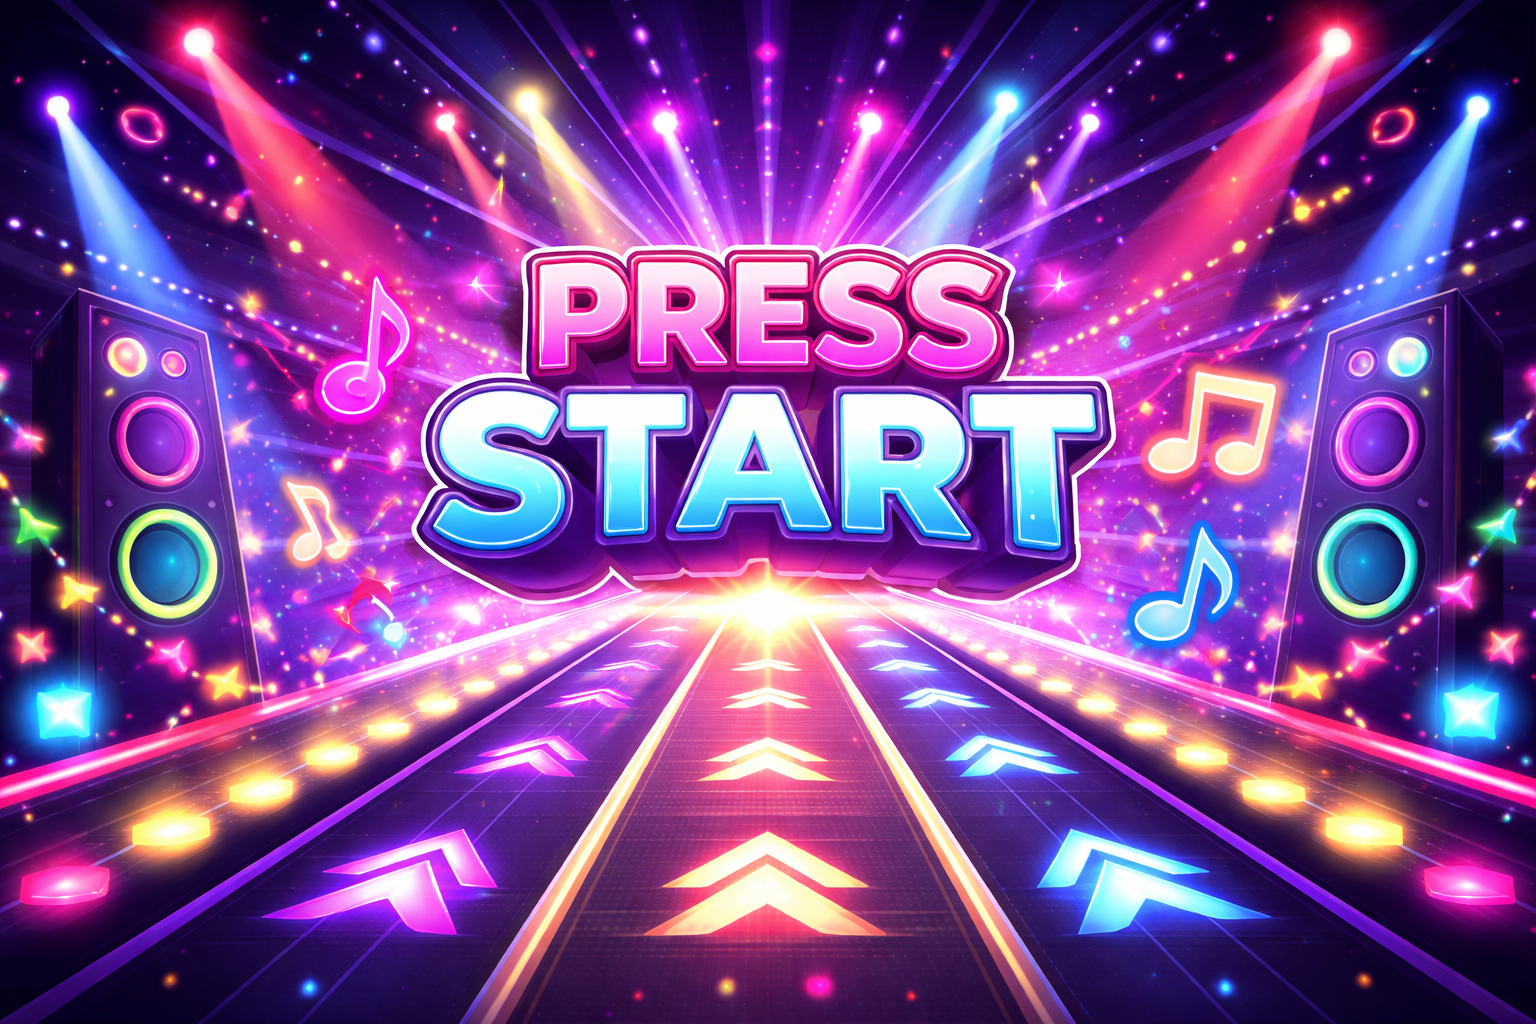
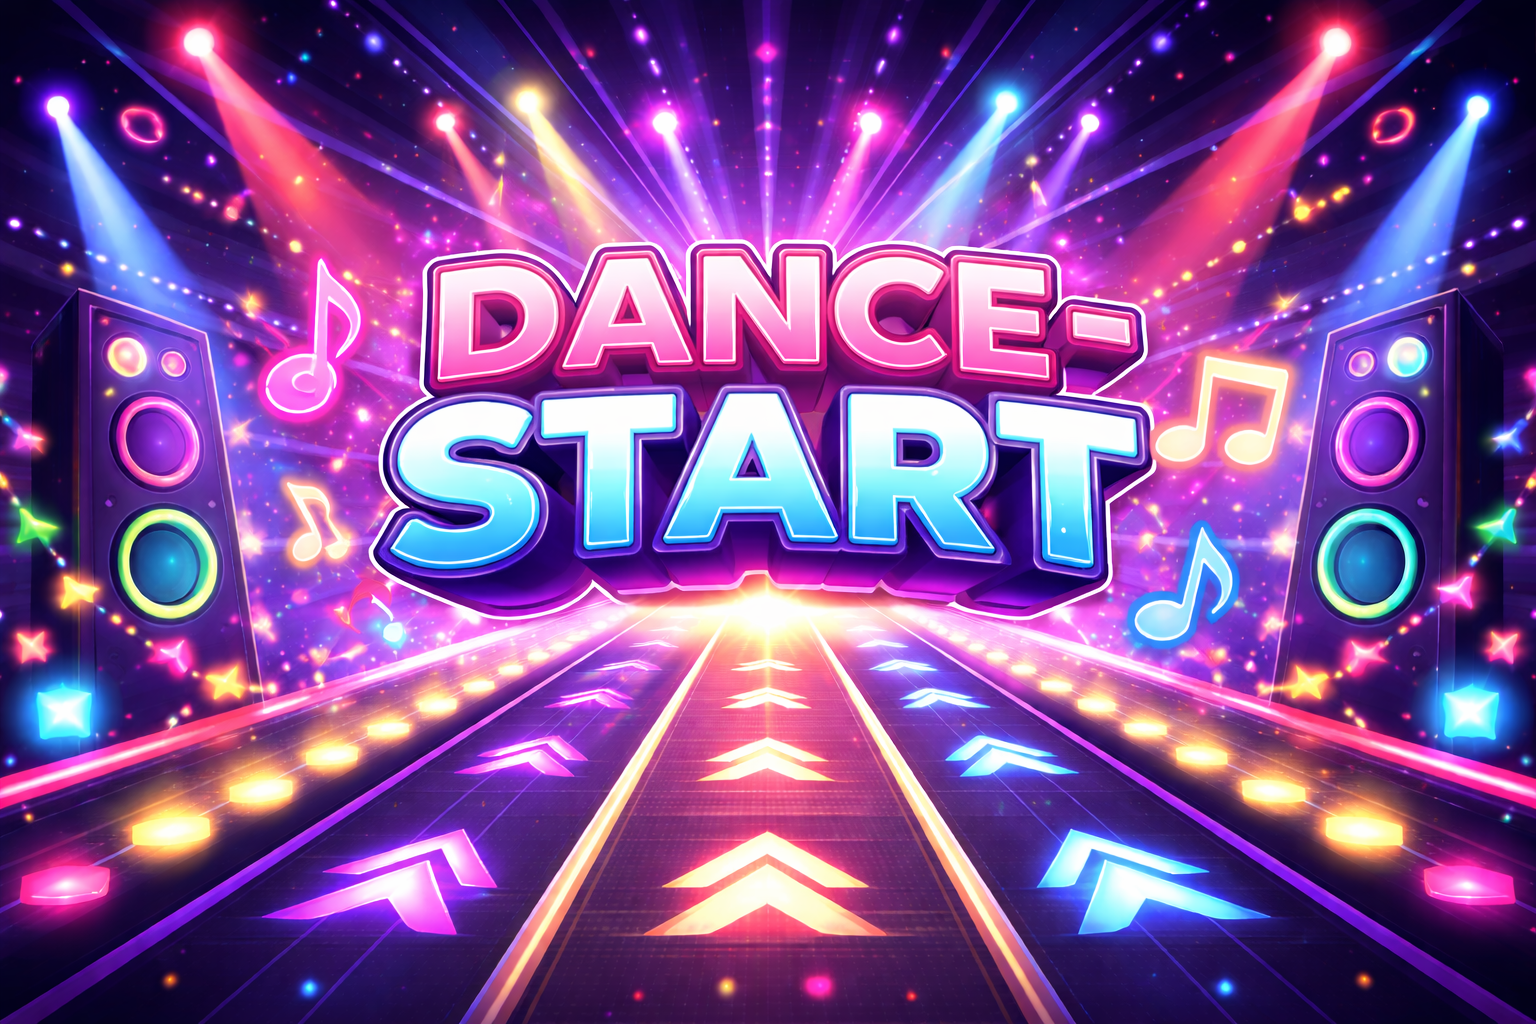
Update!
Changes images to load on the program and eliminate variables

Changed region(s): [[0.1562, 0.125, 0.875, 0.6875], [0.9688, 0.75, 1.0, 0.7812], [0.5312, 0.1562, 0.5625, 0.1875]]

diff --git a/dance-start.py b/dance-start.py
@@ -4,22 +4,20 @@ height=600
 WHITE=(0,0,0)
 pygame.init()
 screen=pygame.display.set_mode((width,height))
-background=pygame.image.load("background.png").convert()
+background=pygame.image.load("background.png").convert_alpha()
 background=pygame.transform.scale(background,(width,height))
+background.set_alpha(128)
 clock=pygame.time.Clock()
 state="menu"
 done=False
 def begin_start():
-    screen.fill(WHITE)
-    font=pygame.font.SysFont("Arial",50)
-    title=font.render("Dance-Start",True,(255,255,255))
-    screen.blit(title,(250,200))
-
-    small_font=pygame.font.SysFont("Arial",30)
-    message=small_font.render("Presiona ESPACIO para continuar",True,(180,180,180))
+    screen.blit(background,(0,0))
+    small_font=pygame.font.SysFont("Arial",32)
+    message=small_font.render("Presiona ESPACIO para continuar",True,(255,255,255))
     message_rect=message.get_rect(center=(width/2,height/2+100))    
     screen.blit(message,(200,350))
 
+    
 def start_game():
     screen.fill(WHITE)
     font=pygame.font.SysFont("Arial",50)